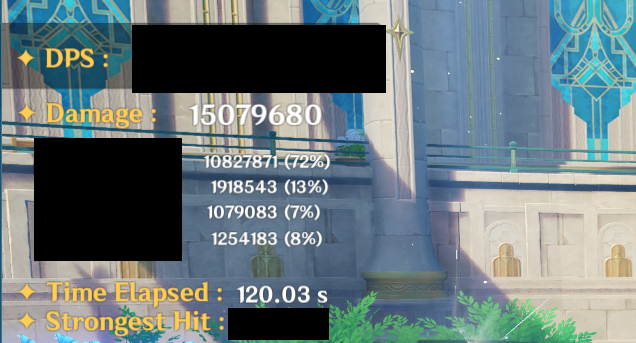
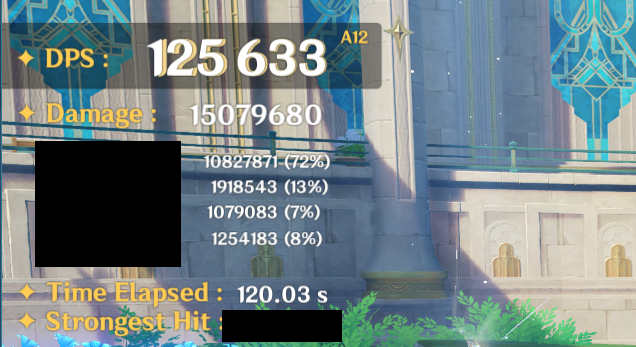
Removing Hiding DPS example

diff --git a/src/components/SubmitDummy.tsx b/src/components/SubmitDummy.tsx
@@ -566,7 +566,7 @@ export default function SubmitDummy() {
               <div style={{ marginTop: 10 }}>
                 <div style={{ fontSize: 12, opacity: 0.8, marginBottom: 6 }}>Example</div>
                 <img
-                  src="/genshinpuzzle/example-submission.png"
+                  src="example-submission.png"
                   alt="Example submission"
                   style={{
                     width: "100%",
